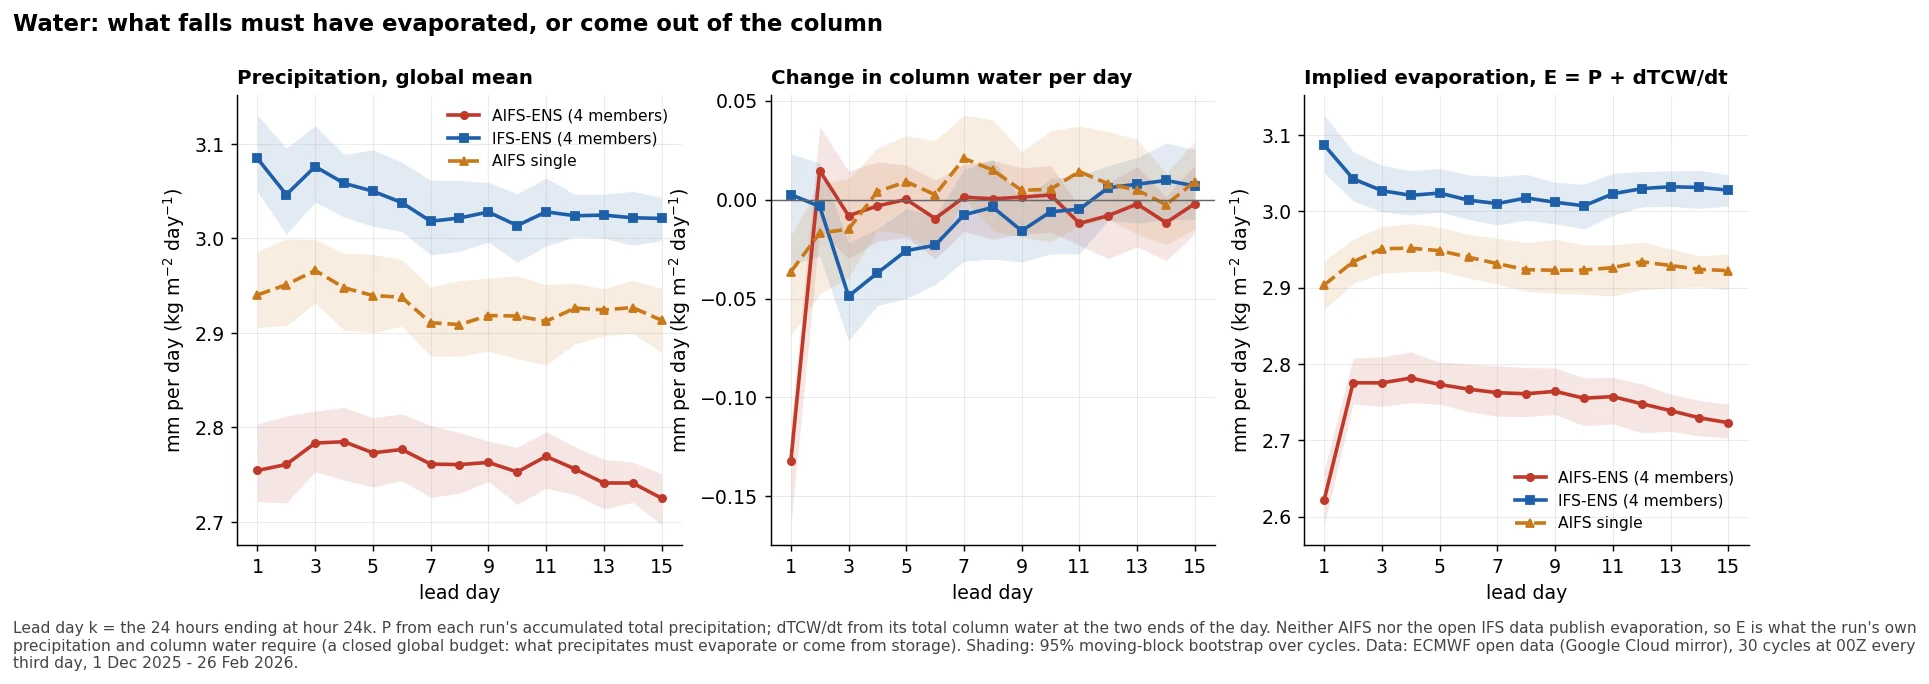
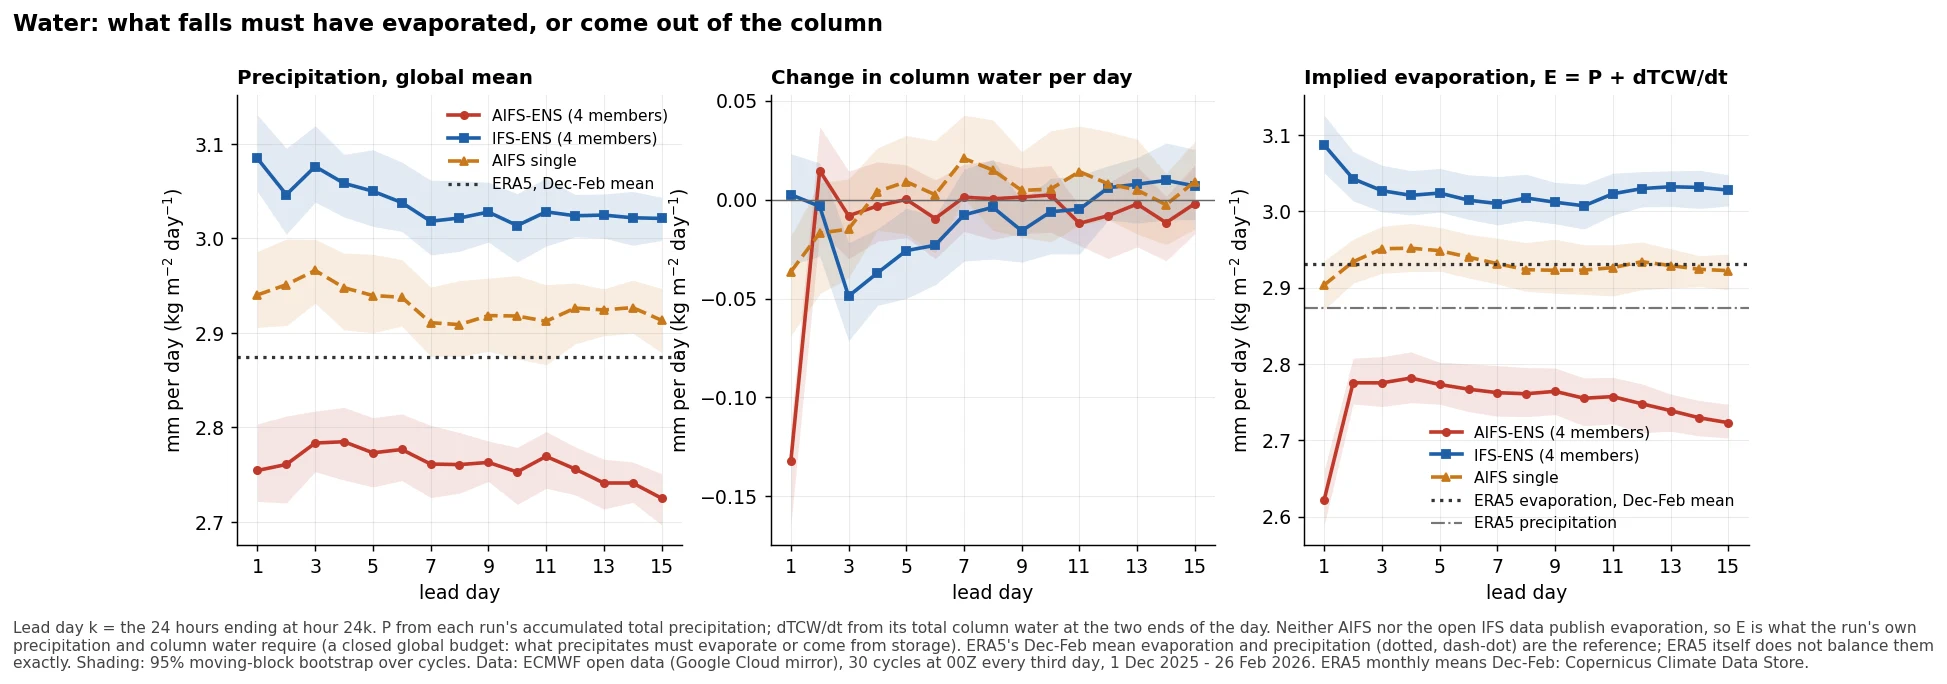
AINWP study: ERA5 Dec-Feb precipitation/evaporation reference in the conservation section (P 2.87, E 2.93 mm/day)
Claude-Session: https://claude.ai/code/session_016GpJVuCKLUj5sV91bRzXuc

diff --git a/aifs-aam-budget.html b/aifs-aam-budget.html
@@ -400,7 +400,7 @@
   <ul>
     <li><b>AIFS-ENS rains less</b>: 2.75 mm a day globally at day 10 against IFS-ENS's 3.01, a difference of
     -0.26 (95% interval -0.28 to -0.24) mm a day, significant at every lead from day 1. AIFS single sits between them
-    (2.92).</li>
+    (2.92). ERA5's December–February global mean is 2.87 mm a day of precipitation and 2.93 mm a day of evaporation (the reanalysis does not balance them exactly either).</li>
     <li><b>Column water is steady.</b> After the first day, every model's global column water changes by less than 0.05 mm a day, so
     each run's evaporation must nearly equal its precipitation, and AIFS-ENS is therefore implying about 9% less evaporation than
     IFS-ENS. On day 1 AIFS-ENS loses 0.13 mm of column water, a spin-down from its initial state that IFS does not show.</li>
